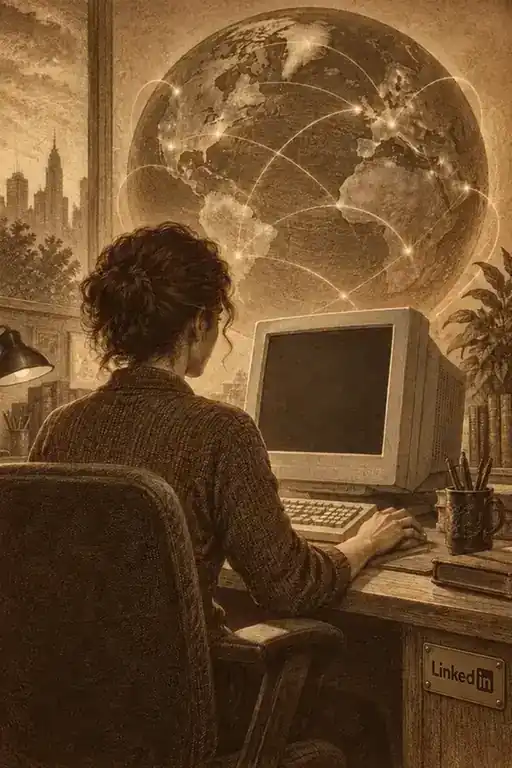
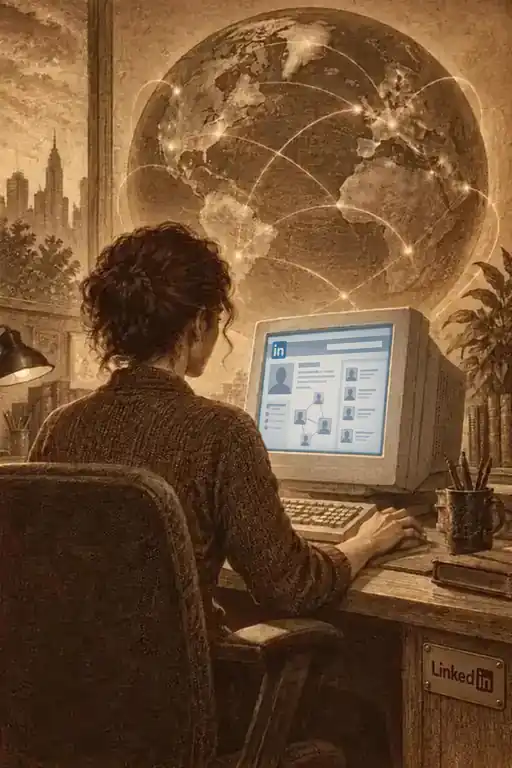
Enciende la pantalla de la carta de LinkedIn

diff --git a/service-worker-258.js b/service-worker-258.js
@@ -1,6 +1,6 @@
 // Al cambiar cualquier archivo hay que subir este número: es lo que hace que el
 // navegador reinstale el service worker y descarte la caché anterior.
-const CACHE = "continuum-v279";
+const CACHE = "continuum-v280";
 // Las láminas de animales —5,5 MB en casi cien archivos— no se precargan: quien nunca
 // abre ese bloque no debería pagar esa descarga solo por instalar la aplicación. La ruta
 // `fetch` de más abajo ya guarda en caché cualquier respuesta válida la primera vez que

diff --git a/service-worker.js b/service-worker.js
@@ -1,6 +1,6 @@
 // Al cambiar cualquier archivo hay que subir este número: es lo que hace que el
 // navegador reinstale el service worker y descarte la caché anterior.
-const CACHE = "continuum-v279";
+const CACHE = "continuum-v280";
 // Las láminas de animales —5,5 MB en casi cien archivos— no se precargan: quien nunca
 // abre ese bloque no debería pagar esa descarga solo por instalar la aplicación. La ruta
 // `fetch` de más abajo ya guarda en caché cualquier respuesta válida la primera vez que

diff --git a/updates.js b/updates.js
@@ -1,7 +1,7 @@
 (function () {
   "use strict";
   const CT = window.CONTINUUM;
-  CT.APP_VERSION = "continuum-v279";
+  CT.APP_VERSION = "continuum-v280";
   CT.Updates = { start };
   function start() {
     if (!("serviceWorker" in navigator) || window.Capacitor?.isNativePlatform?.()) return;
